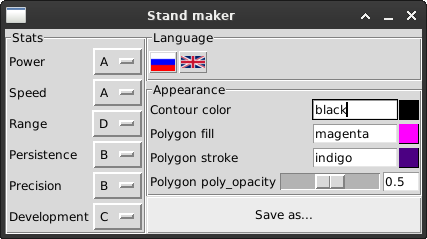
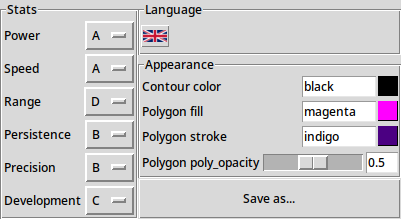
Update README to remove russian

diff --git a/README.md b/README.md
@@ -27,7 +27,7 @@ and write a new one. You can also change stat polygon's opacity.
 
 ### Select language
 You can select your language by clicking a button with a flag.
-Currently available languages: Russian (default), English
+Currently available languages: English
 
 ![Language selection screenshot](readme_images/language.png)
 
